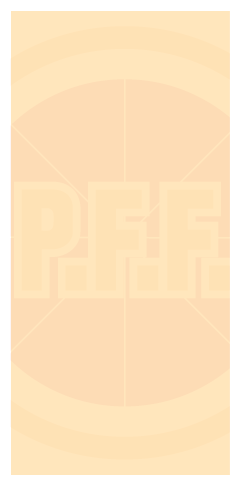
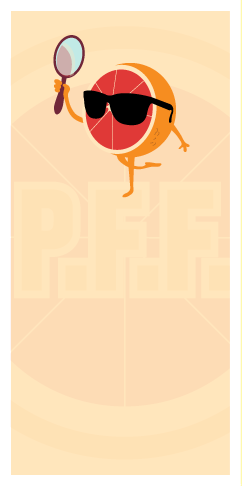
Se agregaron los elementos actualizados para la pagina web de votacion

Changed region(s): [[0.2025, 0.0617, 0.781, 0.4012], [0.9835, 0.0, 1.0, 1.0], [0.4917, 0.4012, 0.5207, 0.4321]]

diff --git a/app/assets/stylesheets/application.css b/app/assets/stylesheets/application.css
@@ -18,6 +18,7 @@ body {
 
 .boton {
 	padding-top: 250px;
+	height: 81px;
 }
 
 .leyenda {
@@ -39,4 +40,11 @@ body {
 	background-image:url('fondo_toronja.png');
 	width: 242px;
 	height: 486px;	
+}
+
+.frame{
+	margin-top: 20px;
+	margin-left:auto;
+	margin-right:auto;
+	width:70%;	
 }
